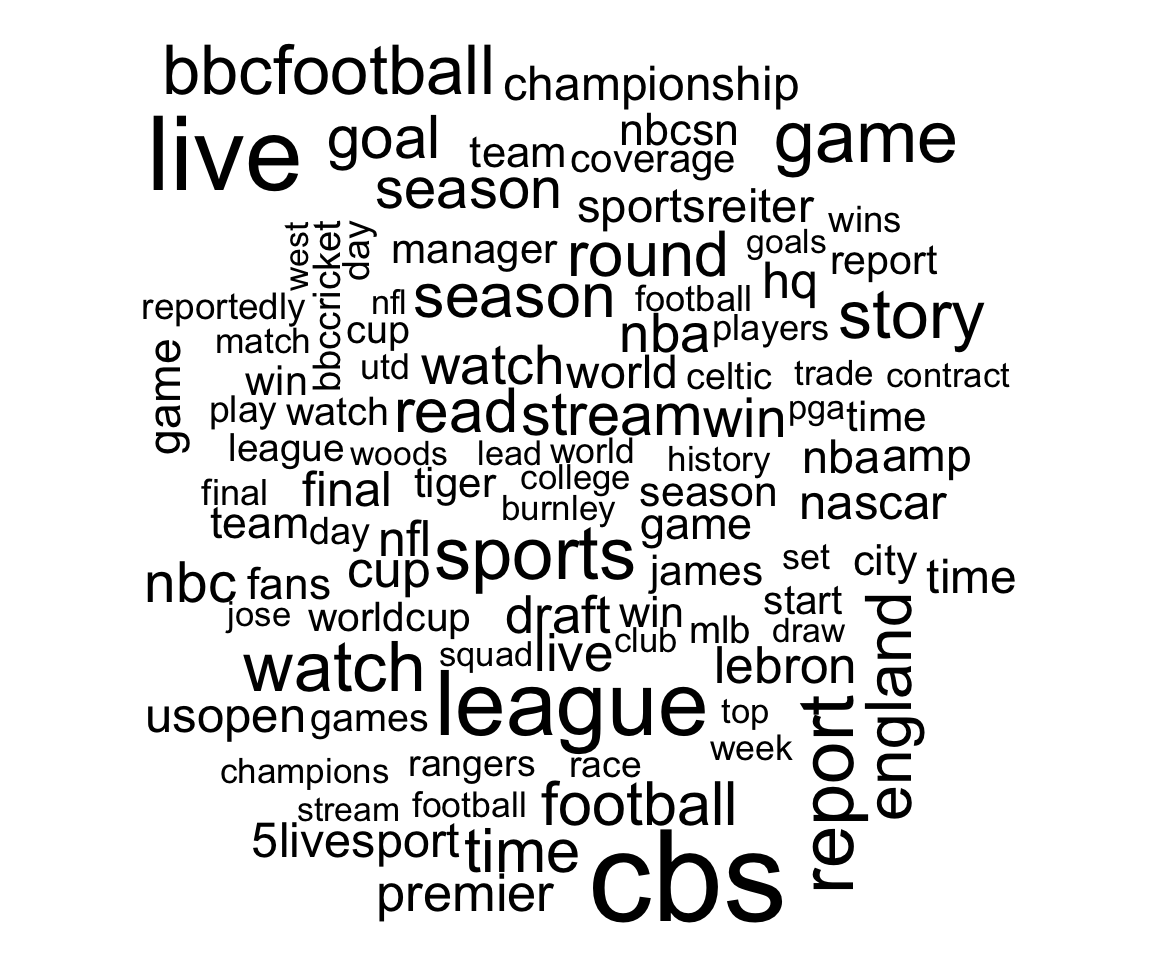
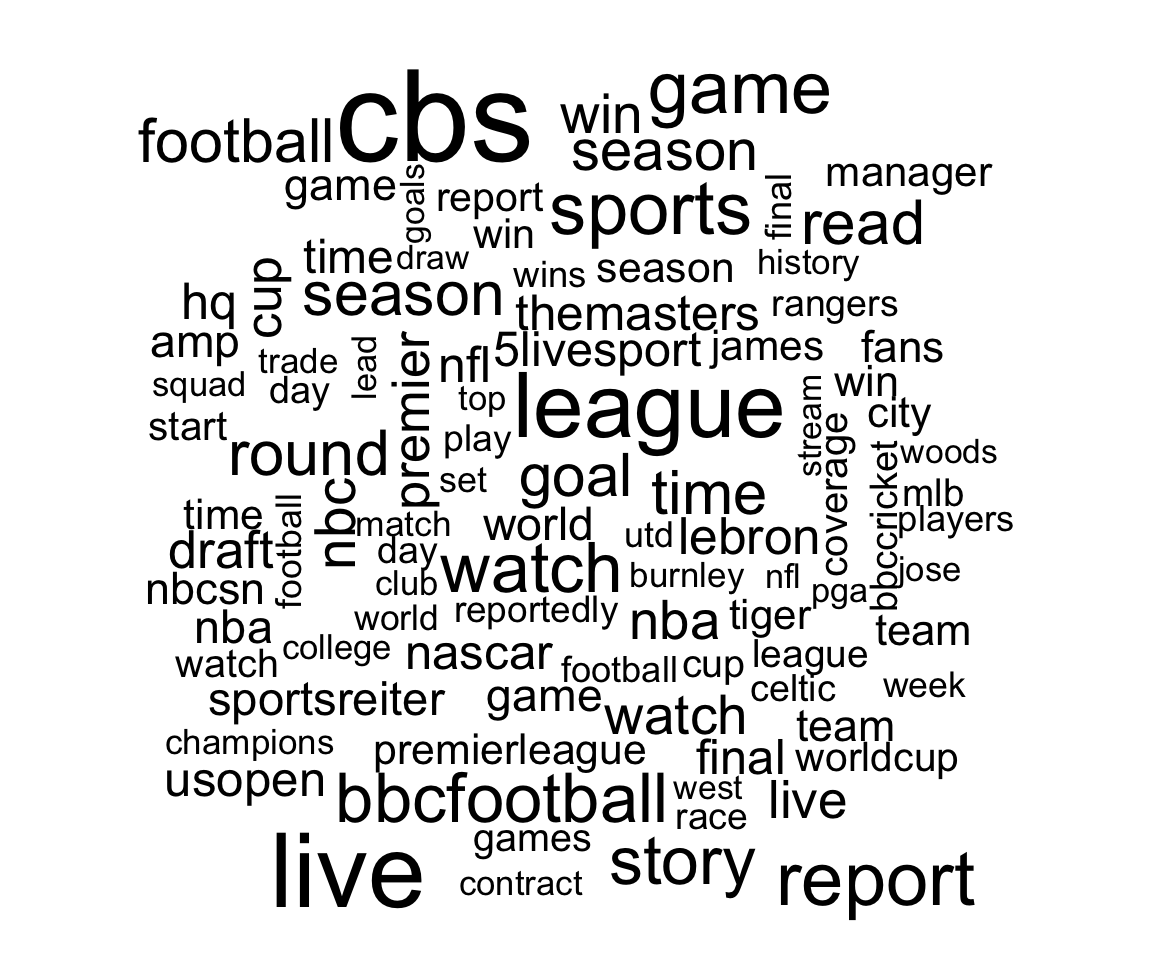
first commit

Changed region(s): [[0.125, 0.0312, 0.875, 0.9688]]

diff --git a/portfolio/test/index.html b/portfolio/test/index.html
@@ -1,0 +1,157 @@
+<!DOCTYPE html>
+<html lang="en-us">
+<head><meta charset="utf-8">
+<meta http-equiv="X-UA-Compatible" content="IE=edge">
+<title>Test</title>
+<meta name="description" content="Describe your website">
+<meta name="viewport" content="width=device-width, initial-scale=1">
+<meta name="robots" content="all,follow">
+<meta name="googlebot" content="index,follow,snippet,archive">
+<link rel="stylesheet" href="/css/bootstrap.min.css">
+<link rel="stylesheet" href="//fonts.googleapis.com/css?family=Roboto:400,300,700,400italic">
+<link rel="stylesheet" href="/css/font-awesome.min.css">
+<link rel="stylesheet" href="/css/owl.carousel.css">
+<link rel="stylesheet" href="/css/owl.theme.css">
+
+
+  <link href="/css/style.default.css" rel="stylesheet" id="theme-stylesheet">
+
+ 
+
+  
+    <!--[if lt IE 9]>
+        <script src="https://oss.maxcdn.com/html5shiv/3.7.2/html5shiv.min.js"></script>
+        <script src="https://oss.maxcdn.com/respond/1.4.2/respond.min.js"></script>
+    <![endif]-->
+  
+
+
+<link href="/css/custom.css" rel="stylesheet">
+<link rel="shortcut icon" href="/img/favicon.png">
+
+
+</head>
+<body>
+  <div id="all">
+      <div class="container-fluid">
+          <div class="row row-offcanvas row-offcanvas-left">
+              <div id="sidebar" class="col-xs-6 col-sm-4 col-md-3 sidebar-offcanvas">
+  <div class="sidebar-content">
+    <h1 class="sidebar-heading"><a href="/">Marissa Barlaz, PhD</a></h1>
+    
+      <p class="sidebar-p">Until May 2020, I was the Linguistic Data Analytics Manager in the School of Literatures, Cultures, and Linguistics at the University of Illinois at Urbana-Champaign.</p>
+    
+    <ul class="sidebar-menu">
+      
+        <li><a href="/portfolio/">Home</a></li>
+      
+        <li><a href="/about/">About</a></li>
+      
+        <li><a href="/contact/">Get in touch</a></li>
+      
+    </ul>
+    <p class="social">
+  
+  
+  
+  
+  
+  <a href="mailto:marissa.barlaz@gmail.com" data-animate-hover="pulse" class="email">
+    <i class="fa fa-envelope"></i>
+  </a>
+  
+  
+  <a href="https://www.linkedin.com/in/marissa-barlaz-52801830/" data-animate-hover="pulse" class="external">
+    <i class="fa fa-linkedin"></i>
+  </a>
+  
+  
+  
+  <a href="https://github.com/marissabarlaz" data-animate-hover="pulse" class="external">
+    <i class="fa fa-github"></i>
+  </a>
+  
+  
+  
+</p>
+
+
+    <div class="copyright">
+      <p class="credit">
+        
+          &copy;2020 Marissa Barlaz |
+        
+        Template by <a href="https://bootstrapious.com/free-templates" class="external">Bootstrapious.com</a>
+
+&amp; ported to Hugo by <a href="https://github.com/kishaningithub">Kishan B</a>
+
+      </p>
+    </div>
+  </div>
+</div>
+
+              
+<div class="col-xs-12 col-sm-8 col-md-9 content-column white-background">
+  <div class="small-navbar visible-xs">
+  <button type="button" data-toggle="offcanvas" class="btn btn-ghost pull-left"> <i class="fa fa-align-left"> </i>Menu</button>
+  <h1 class="small-navbar-heading"><a href="/">Marissa Barlaz, PhD</a></h1>
+</div>
+
+  <div class="row">
+    <div class="col-lg-8">
+      <div class="content-column-content">
+         <h1>Test</h1>
+         
+
+<div id="TOC">
+<ul>
+<li><a href="#r-markdown">R Markdown</a></li>
+<li><a href="#including-plots">Including Plots</a></li>
+</ul>
+</div>
+
+<div id="r-markdown" class="section level2">
+<h2>R Markdown</h2>
+<p>This is an R Markdown document. Markdown is a simple formatting syntax for authoring HTML, PDF, and MS Word documents. For more details on using R Markdown see <a href="http://rmarkdown.rstudio.com" class="uri">http://rmarkdown.rstudio.com</a>.</p>
+<p>When you click the <strong>Knit</strong> button a document will be generated that includes both content as well as the output of any embedded R code chunks within the document. You can embed an R code chunk like this:</p>
+<pre class="r"><code>summary(cars)</code></pre>
+<pre><code>##      speed           dist       
+##  Min.   : 4.0   Min.   :  2.00  
+##  1st Qu.:12.0   1st Qu.: 26.00  
+##  Median :15.0   Median : 36.00  
+##  Mean   :15.4   Mean   : 42.98  
+##  3rd Qu.:19.0   3rd Qu.: 56.00  
+##  Max.   :25.0   Max.   :120.00</code></pre>
+</div>
+<div id="including-plots" class="section level2">
+<h2>Including Plots</h2>
+<p>You can also embed plots, for example:</p>
+<p><img src="/portfolio/test_files/figure-html/pressure-1.png" width="576" /></p>
+<p>Note that the <code>echo = FALSE</code> parameter was added to the code chunk to prevent printing of the R code that generated the plot.</p>
+<pre class="r"><code>ggplot(cars, aes(x = speed, y = dist)) + geom_point()</code></pre>
+<p><img src="/portfolio/test_files/figure-html/unnamed-chunk-1-1.png" width="576" /></p>
+</div>
+
+         
+      </div>
+    </div>
+  </div>
+</div>
+
+          </div>
+      </div>
+  </div>
+  <script src="/js/jquery.min.js"></script>
+<script src="/js/bootstrap.min.js"></script>
+<script src="/js/jquery.cookie.js"> </script>
+<script src="/js/ekko-lightbox.js"></script>
+<script src="/js/jquery.scrollTo.min.js"></script>
+<script src="/js/masonry.pkgd.min.js"></script>
+<script src="/js/imagesloaded.pkgd.min.js"></script>
+<script src="/js/owl.carousel.min.js"></script>
+<script src="/js/front.js"></script>
+
+
+
+</body>
+</html>

diff --git a/portfolio/index.html b/portfolio/index.html
@@ -154,6 +154,30 @@
                   <div class="box-masonry">
                       
                         
+                        <a href="/portfolio/test/" title="" class="box-masonry-image with-hover-overlay with-hover-icon">
+                        
+                            <img src="/img/test.png" alt="" class="img-responsive">
+                        </a>
+                      
+                      
+                      <div class="box-masonry-text">
+                      
+                          <h4><a href="/portfolio/test/">Test</a></h4>
+                          <div class="box-masonry-description">
+                            <p>
+                                
+                                  This is a test.
+                                
+                            </p>
+                          </div>
+                      </div>
+                  </div>
+              </div>
+          
+              <div class="col-xs-12 col-sm-6 col-md-4 col-lg-3 masonry-item">
+                  <div class="box-masonry">
+                      
+                        
                         <a href="/portfolio/textminingr/" title="" class="box-masonry-image with-hover-overlay with-hover-icon">
                         
                             <img src="/img/twitter.png" alt="" class="img-responsive">

diff --git a/portfolio/textminingr/index.html b/portfolio/textminingr/index.html
@@ -386,10 +386,12 @@ sports_sentiments_bing &lt;- timelines_frequency %&gt;%
   count(word) %&gt;%
   with(wordcloud(word, n, max.words = 100))</code></pre>
 <pre><code>## Joining, by = &quot;word&quot;</code></pre>
-<pre><code>## Warning in wordcloud(word, n, max.words = 100): themasters could not be fit on
+<pre><code>## Warning in wordcloud(word, n, max.words = 100): england could not be fit on
 ## page. It will not be plotted.</code></pre>
-<pre><code>## Warning in wordcloud(word, n, max.words = 100): premierleague could not be fit
-## on page. It will not be plotted.</code></pre>
+<pre><code>## Warning in wordcloud(word, n, max.words = 100): stream could not be fit on page.
+## It will not be plotted.</code></pre>
+<pre><code>## Warning in wordcloud(word, n, max.words = 100): championship could not be fit on
+## page. It will not be plotted.</code></pre>
 <p><img src="/portfolio/TextMiningR_files/figure-html/unnamed-chunk-14-1.png" width="576" /></p>
 <p>#Comparing tweets with certain search terms
 ##Processing data
